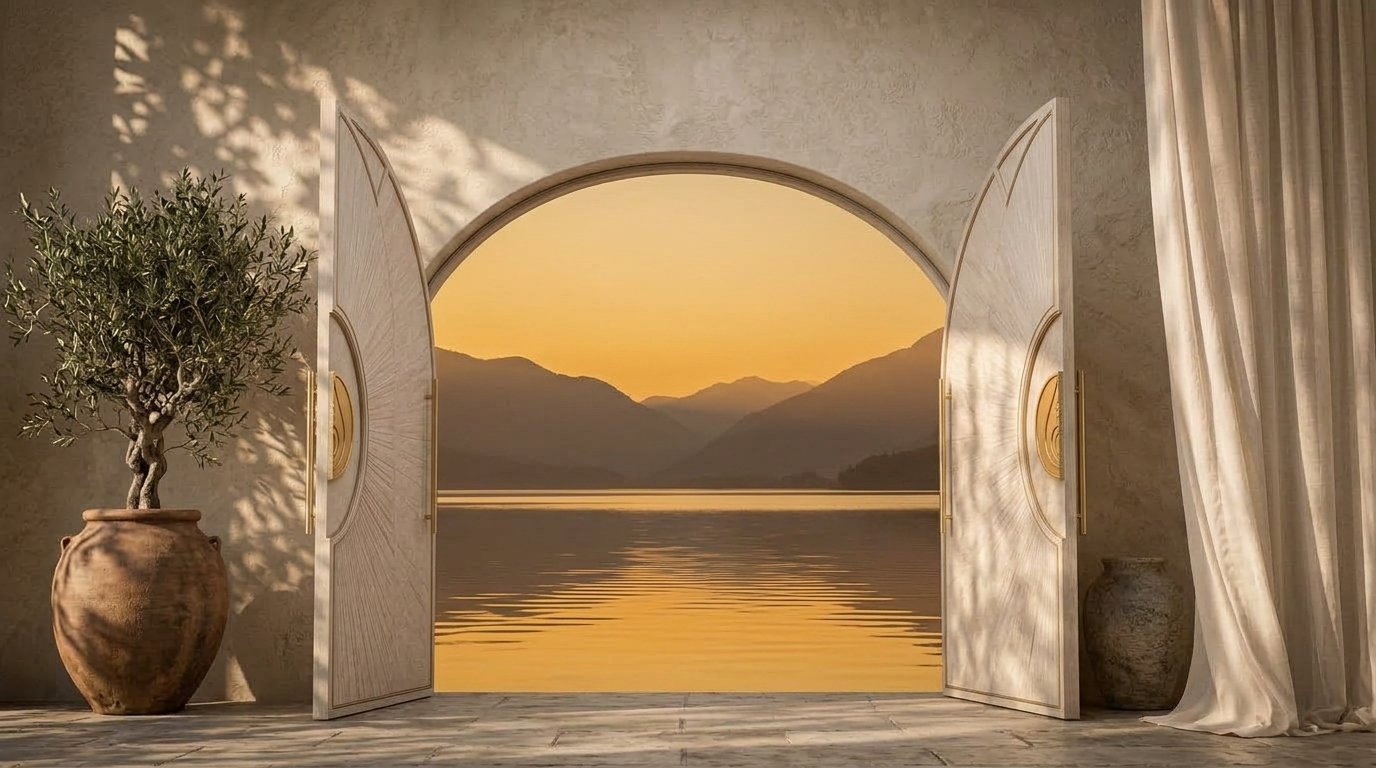
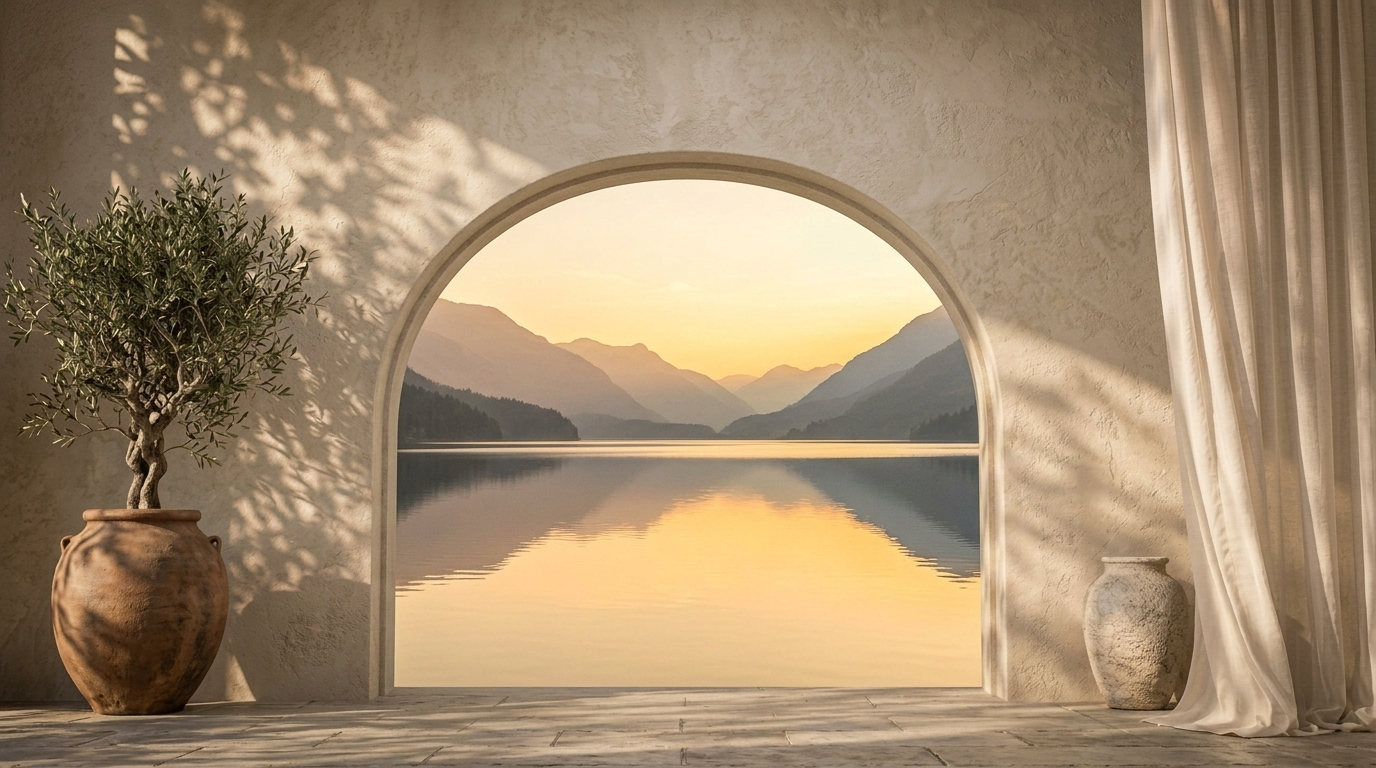
Remove door leaves from open view - regenerate clean open archway and fade panels out

diff --git a/src/components/drumi/DrumiThreshold.tsx b/src/components/drumi/DrumiThreshold.tsx
@@ -24,7 +24,7 @@ const DOOR_GEOMETRY = {
   bottom: 695 / 768,
 };
 
-const ENTER_MS = 1800;
+const ENTER_MS = 1400;
 const easeInOut = (t: number) => (t < 0.5 ? 4 * t * t * t : 1 - Math.pow(-2 * t + 2, 3) / 2);
 const easeOut = (t: number) => 1 - Math.pow(1 - t, 3);
 
@@ -106,7 +106,7 @@ export function DrumiThreshold({
       const shrink = 1 - easeOut(Math.min(1, t * 1.2));
       clip.style.clipPath = `inset(${inset0.t * shrink}px ${inset0.rgt * shrink}px ${inset0.b * shrink}px ${inset0.l * shrink}px)`;
 
-      const op = String(1 - easeInOut(Math.min(1, t / 0.65)));
+      const op = String(1 - easeInOut(Math.min(1, t / 0.6)));
       base.style.opacity = op;
       panels.style.opacity = op;
 
@@ -137,7 +137,7 @@ export function DrumiThreshold({
         <button
           type="button"
           onClick={onToggleSound}
-          className={`flex items-center gap-2 px-3.5 py-1.5 rounded-full border backdrop-blur-md text-[11px] uppercase tracking-[0.2em] transition-all shadow-sm ${
+          className={`flex items-center gap-2 px-3.5 py-1.5 rounded-full border backdrop-blur-md text-[11px] uppercase tracking-[0.2em] transition-all shadow-sm cursor-pointer ${
             soundOn
               ? "bg-[#9a7470]/90 border-[#c4a9a6] text-[#fbf7f4]"
               : "bg-[#f5efe9]/80 border-[#d8c9be] text-[#7d6957] hover:bg-[#ede3da]"
@@ -214,6 +214,7 @@ export function DrumiThreshold({
               : undefined
           }
         >
+          {/* This is the 100% clean open archway with NO DOORS AT ALL */}
           <div
             ref={openBgRef}
             className="absolute inset-0 transition-transform"
@@ -222,7 +223,7 @@ export function DrumiThreshold({
               backgroundSize: geo ? `${geo.dispW}px ${geo.dispH}px` : "cover",
               backgroundPosition: geo ? `${geo.offX}px ${geo.offY}px` : "center",
               transformOrigin: origin,
-              transform: "scale(1.25)",
+              transform: "scale(1.2)",
             }}
           />
         </div>
@@ -230,19 +231,18 @@ export function DrumiThreshold({
         {/* 3. Mathematical Arched Door Panels (3D Rotate Y) */}
         {rect && geo && (
           <div ref={panelsRef} className="absolute inset-0 pointer-events-none">
-            {/* Left Door Panel */}
+            {/* Left Door Panel - Swings open completely and fades out so NO DOOR IS VISIBLE */}
             <div
-              className="absolute transition-transform duration-[1500ms] cubic-bezier(0.25, 1, 0.5, 1)"
+              className="absolute transition-all duration-[1200ms] cubic-bezier(0.25, 1, 0.5, 1)"
               style={{
                 left: rect.left,
                 top: rect.top,
                 width: rect.width / 2 + 0.5,
                 height: rect.height,
                 transformOrigin: "left center",
-                transform: isOpen ? "rotateY(-84deg) scaleX(0.96)" : "rotateY(0deg)",
-                filter: isOpen
-                  ? "brightness(0.7) drop-shadow(12px 0 16px rgba(0,0,0,0.4))"
-                  : "brightness(1)",
+                transform: isOpen ? "rotateY(-115deg) scaleX(0.85)" : "rotateY(0deg)",
+                opacity: isOpen ? 0 : 1,
+                filter: isOpen ? "brightness(0.5)" : "brightness(1)",
               }}
             >
               <img
@@ -252,19 +252,18 @@ export function DrumiThreshold({
               />
             </div>
 
-            {/* Right Door Panel */}
+            {/* Right Door Panel - Swings open completely and fades out so NO DOOR IS VISIBLE */}
             <div
-              className="absolute transition-transform duration-[1500ms] cubic-bezier(0.25, 1, 0.5, 1)"
+              className="absolute transition-all duration-[1200ms] cubic-bezier(0.25, 1, 0.5, 1)"
               style={{
                 left: rect.left + rect.width / 2 - 0.5,
                 top: rect.top,
                 width: rect.width / 2 + 0.5,
                 height: rect.height,
                 transformOrigin: "right center",
-                transform: isOpen ? "rotateY(84deg) scaleX(0.96)" : "rotateY(0deg)",
-                filter: isOpen
-                  ? "brightness(0.7) drop-shadow(-12px 0 16px rgba(0,0,0,0.4))"
-                  : "brightness(1)",
+                transform: isOpen ? "rotateY(115deg) scaleX(0.85)" : "rotateY(0deg)",
+                opacity: isOpen ? 0 : 1,
+                filter: isOpen ? "brightness(0.5)" : "brightness(1)",
               }}
             >
               <img
